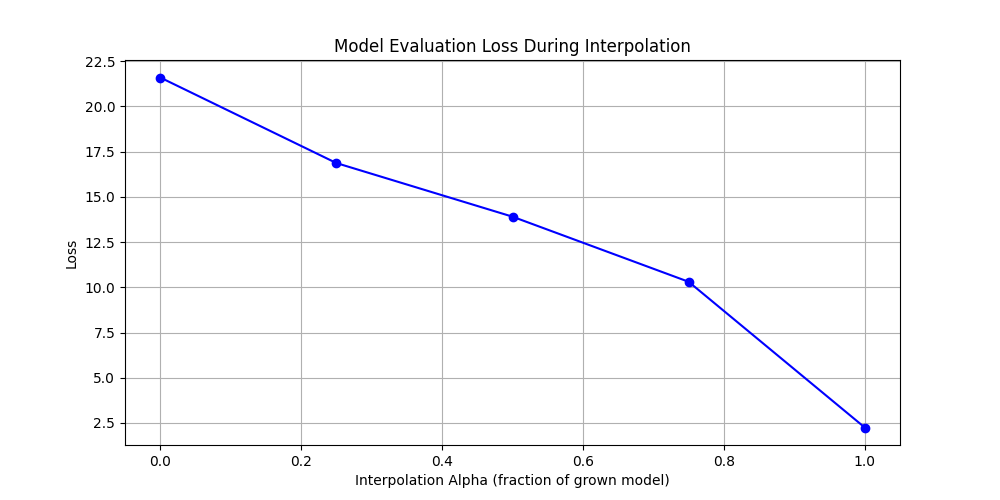
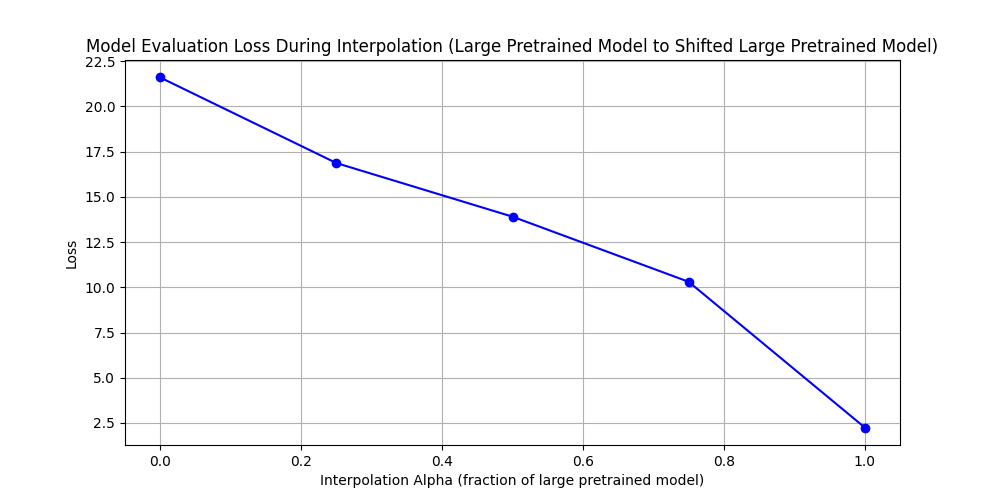
Added plots and fixed axes

Changed region(s): [[0.093, 0.06, 0.93, 0.12], [0.31, 0.93, 0.713, 0.99]]

diff --git a/src/direction_of_growth.py b/src/direction_of_growth.py
@@ -78,12 +78,28 @@ if __name__ == "__main__":
         torch.device("cuda"),
         tokenizer
     )
+    
+    rouges = [r['rougeL_high_recall'] for r in rouges]
 
     # Plot the losses
-    eval_utils.plot_losses(alphas, losses, save_path="interpolation_loss_lpt_slpt.png")
+    eval_utils.plot_losses(
+        alphas, 
+        losses, 
+        save_path="interpolation_loss_lpt_slpt.png",
+        title="Model Evaluation Loss During Interpolation (Large Pretrained Model to Shifted Large Pretrained Model)",
+        xlabel="Interpolation Alpha (fraction of large pretrained model)",
+        ylabel="Loss"
+    )
 
     # Plot the rouge scores
-    eval_utils.plot_losses(alphas, losses, save_path="interpolation_rouge_lpt_slpt.png")
+    eval_utils.plot_losses(
+        alphas, 
+        rouges, 
+        save_path="interpolation_rouge_lpt_slpt.png",
+        title="Model Evaluation Rouge Scores During Interpolation (Large Pretrained Model to Shifted Large Pretrained Model)",
+        xlabel="Interpolation Alpha (fraction of large pretrained model)",
+        ylabel="Rouge Score"
+    )
 
 
     # 2. Interpolate shifted_large_pretrained_model and large_finetuned_model
@@ -96,8 +112,24 @@ if __name__ == "__main__":
         tokenizer
     )
 
+    rouges = [r['rougeL_high_recall'] for r in rouges]
+
     # Plot the losses
-    eval_utils.plot_losses(alphas, losses, save_path="interpolation_loss_slpt_lft.png")
+    eval_utils.plot_losses(
+        alphas, 
+        losses, 
+        save_path="interpolation_loss_slpt_lft.png", 
+        title="Model Evaluation Loss During Interpolation (Shifted Large Pretrained Model to Large Finetuned Model)",
+        xlabel="Interpolation Alpha (fraction of shifted large pretrained model)",
+        ylabel="Loss"
+    )
 
     # Plot the rouge scores
-    eval_utils.plot_losses(alphas, losses, save_path="interpolation_rouge_slpt_lft.png")
+    eval_utils.plot_losses(
+        alphas, 
+        rouges, 
+        save_path="interpolation_rouge_slpt_lft.png",
+        title="Model Evaluation Rouge Scores During Interpolation (Shifted Large Pretrained Model to Large Finetuned Model)",
+        xlabel="Interpolation Alpha (fraction of shifted large pretrained model)",
+        ylabel="RougeL high Recall Score"
+    )

diff --git a/src/eval_utils.py b/src/eval_utils.py
@@ -105,12 +105,17 @@ def load_model(model_name: str, path: str = None):
     return model
     
 
-def plot_losses(alphas, losses, save_path="interpolation_loss.png"):
+def plot_losses(alphas, losses, save_path="interpolation_loss.png", **kwargs):
+
+    title = kwargs.get('title', 'Model Evaluation Loss During Interpolation')
+    xlabel = kwargs.get('xlabel', 'Interpolation Alpha (fraction of grown model)')
+    ylabel = kwargs.get('ylabel', 'Loss')
+
     plt.figure(figsize=(10, 5))
     plt.plot(alphas, losses, marker='o', linestyle='-', color='b')
-    plt.title('Model Evaluation Loss During Interpolation')
-    plt.xlabel('Interpolation Alpha (fraction of grown model)')
-    plt.ylabel('Loss')
+    plt.title(title)
+    plt.xlabel(xlabel)
+    plt.ylabel(ylabel)
     plt.grid(True)
     plt.savefig(save_path)
 
